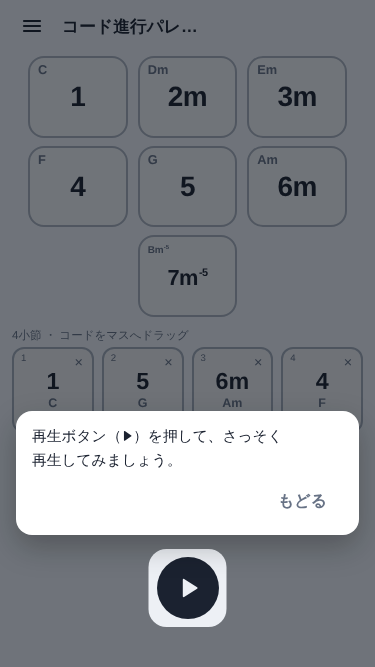
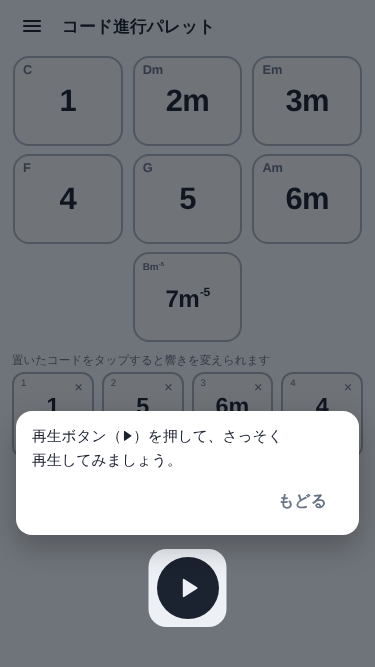
ポップアップのクラス名がチュートリアルのアニメーションと衝突していたのを修正
Claude-Session: https://claude.ai/code/session_01JhWzTyrVJoDBepjoc6LJWK

diff --git a/index.html b/index.html
@@ -414,7 +414,7 @@ body.tutlite .gstrip{visibility:hidden}
 /* コーチマーク（メイン画面の上の吹き出し） */
 .coach{position:fixed;inset:0;z-index:55;pointer-events:none}
 /* 最初のチュートリアルのあとに出す案内のポップアップ */
-.pop{position:fixed;inset:0;z-index:58;background:rgba(8,12,20,.45);display:flex;align-items:center;justify-content:center;padding:20px;animation:popfade .25s ease}
+.modalpop{position:fixed;inset:0;z-index:58;background:rgba(8,12,20,.45);display:flex;align-items:center;justify-content:center;padding:20px;animation:popfade .25s ease}
 @keyframes popfade{from{opacity:0}}
 .popcard{width:min(100%,380px);background:var(--surface);color:var(--ink);border-radius:22px;padding:22px 20px 18px;text-align:center;box-shadow:0 20px 50px rgba(0,0,0,.3);
   display:flex;flex-direction:column;gap:10px;align-items:center;animation:tpop .45s cubic-bezier(.3,1.5,.5,1) both}
@@ -508,7 +508,7 @@ body.tutlite .lane,body.tutlite .leg,body.tutlite .badges,body.tutlite .bpm,body
   <div class="tutstage" id="tutStage"></div>
   <div class="tutnav"><button class="tutbtn alt" id="tutBack">もどる</button><button class="tutbtn" id="tutNext">つぎへ</button></div>
 </div>
-<div class="pop" id="moodPop" hidden><div class="popcard" role="dialog" aria-label="雰囲気のつくり方の案内">
+<div class="modalpop" id="moodPop" hidden><div class="popcard" role="dialog" aria-label="雰囲気のつくり方の案内">
   <div class="popchips" id="moodPopChips"></div>
   <div class="popeyebrow">NEXT</div>
   <h2>次は「雰囲気のつくり方」</h2>
